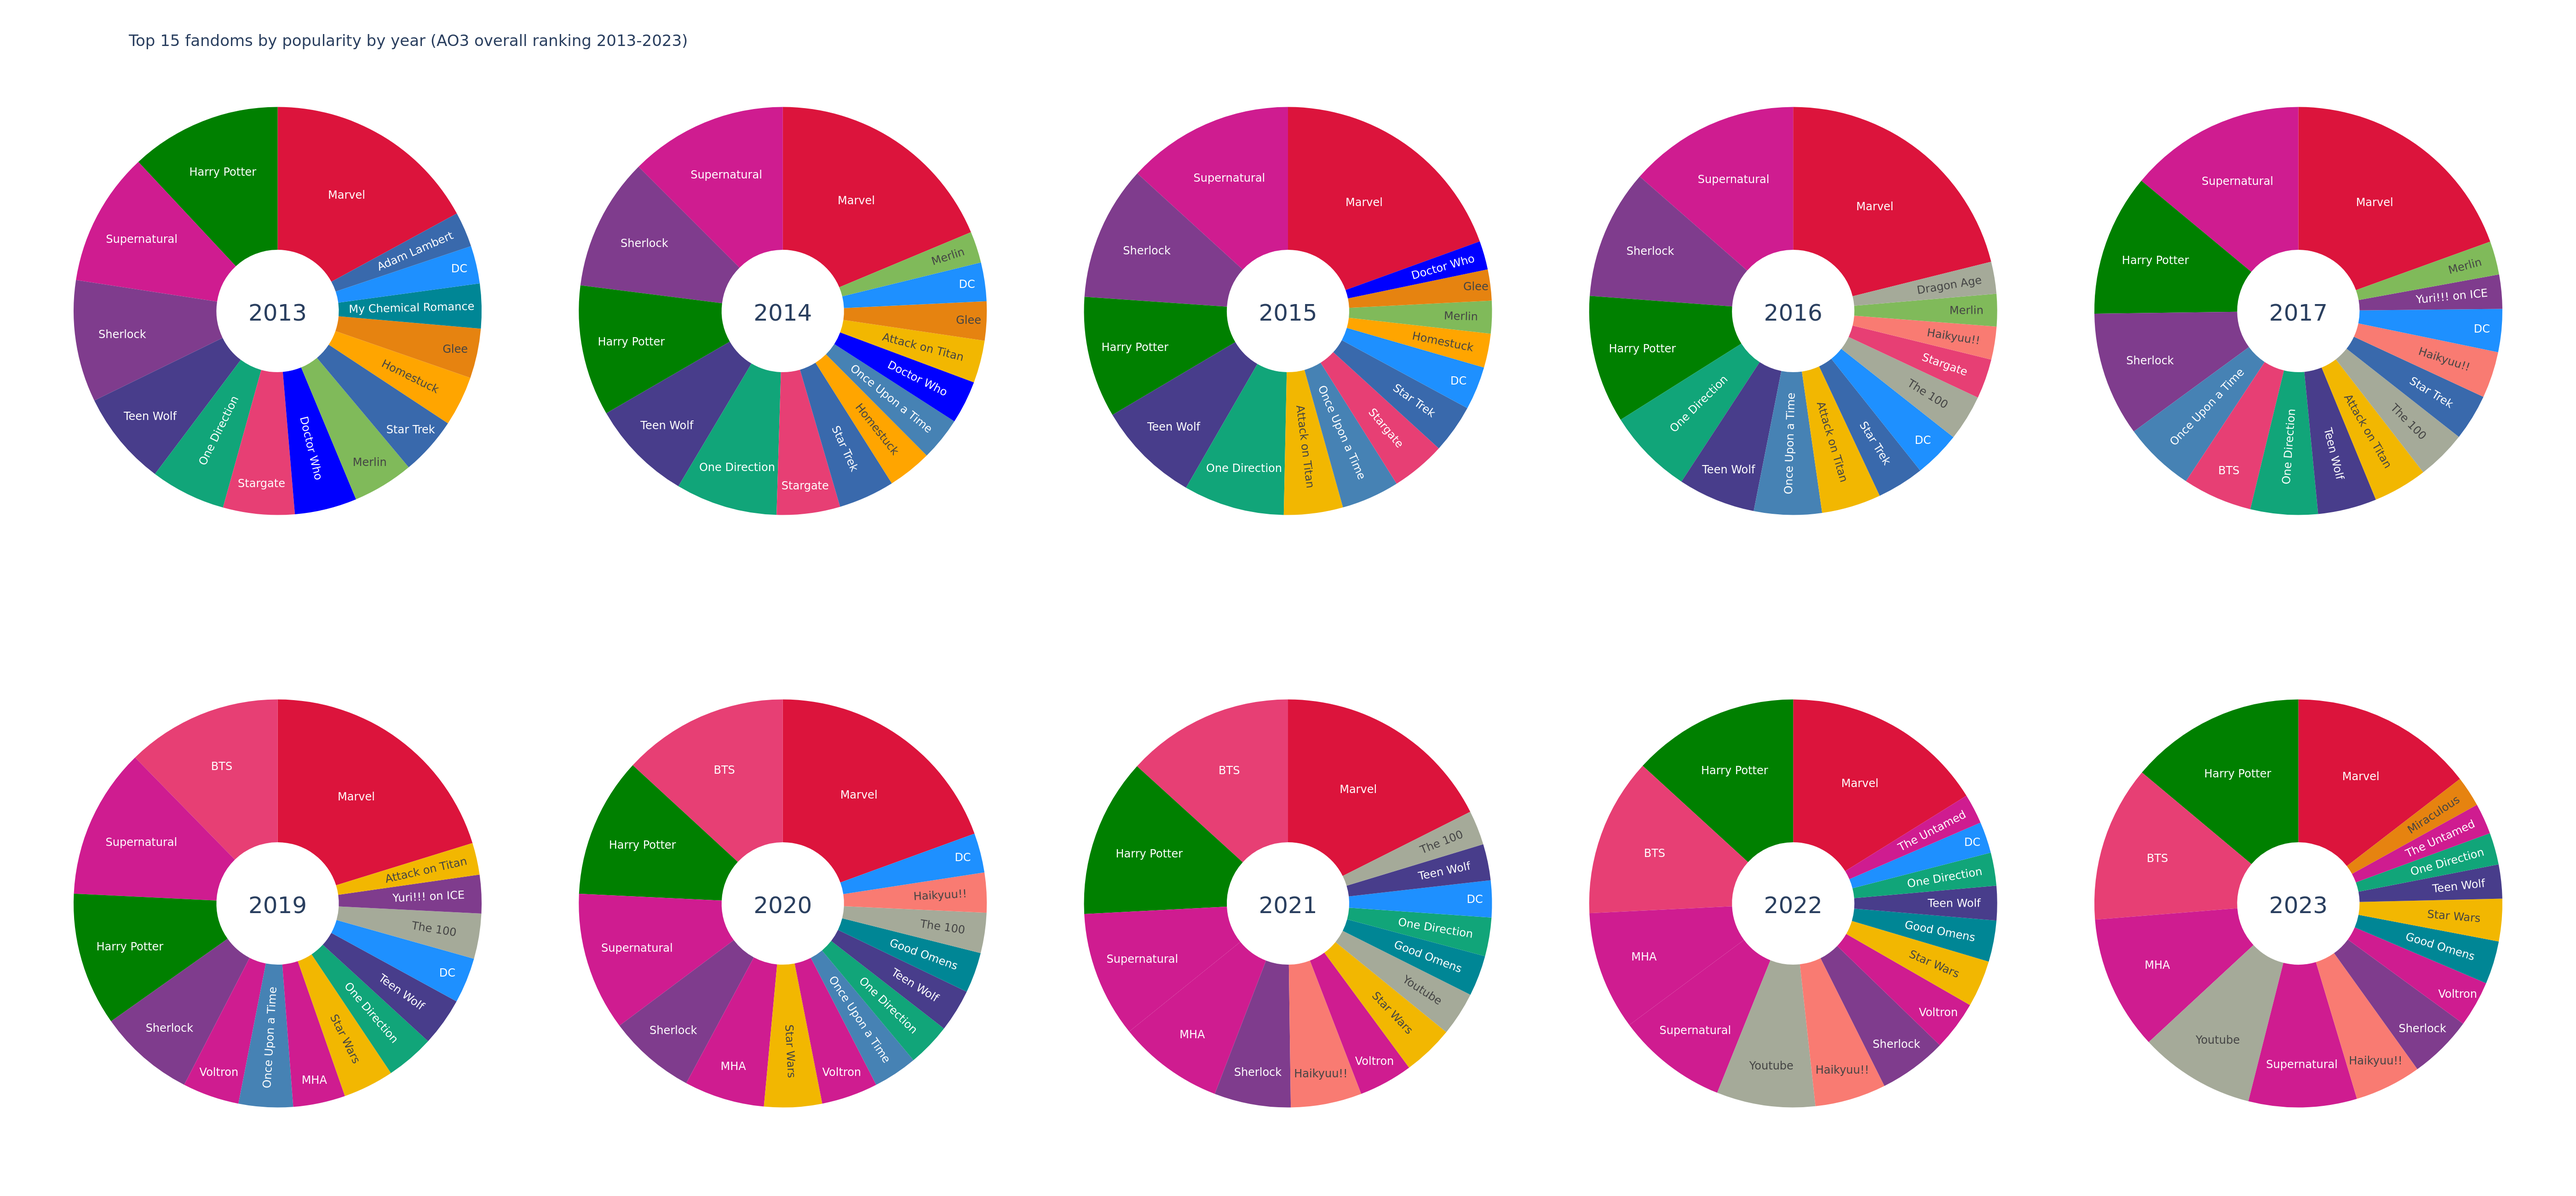
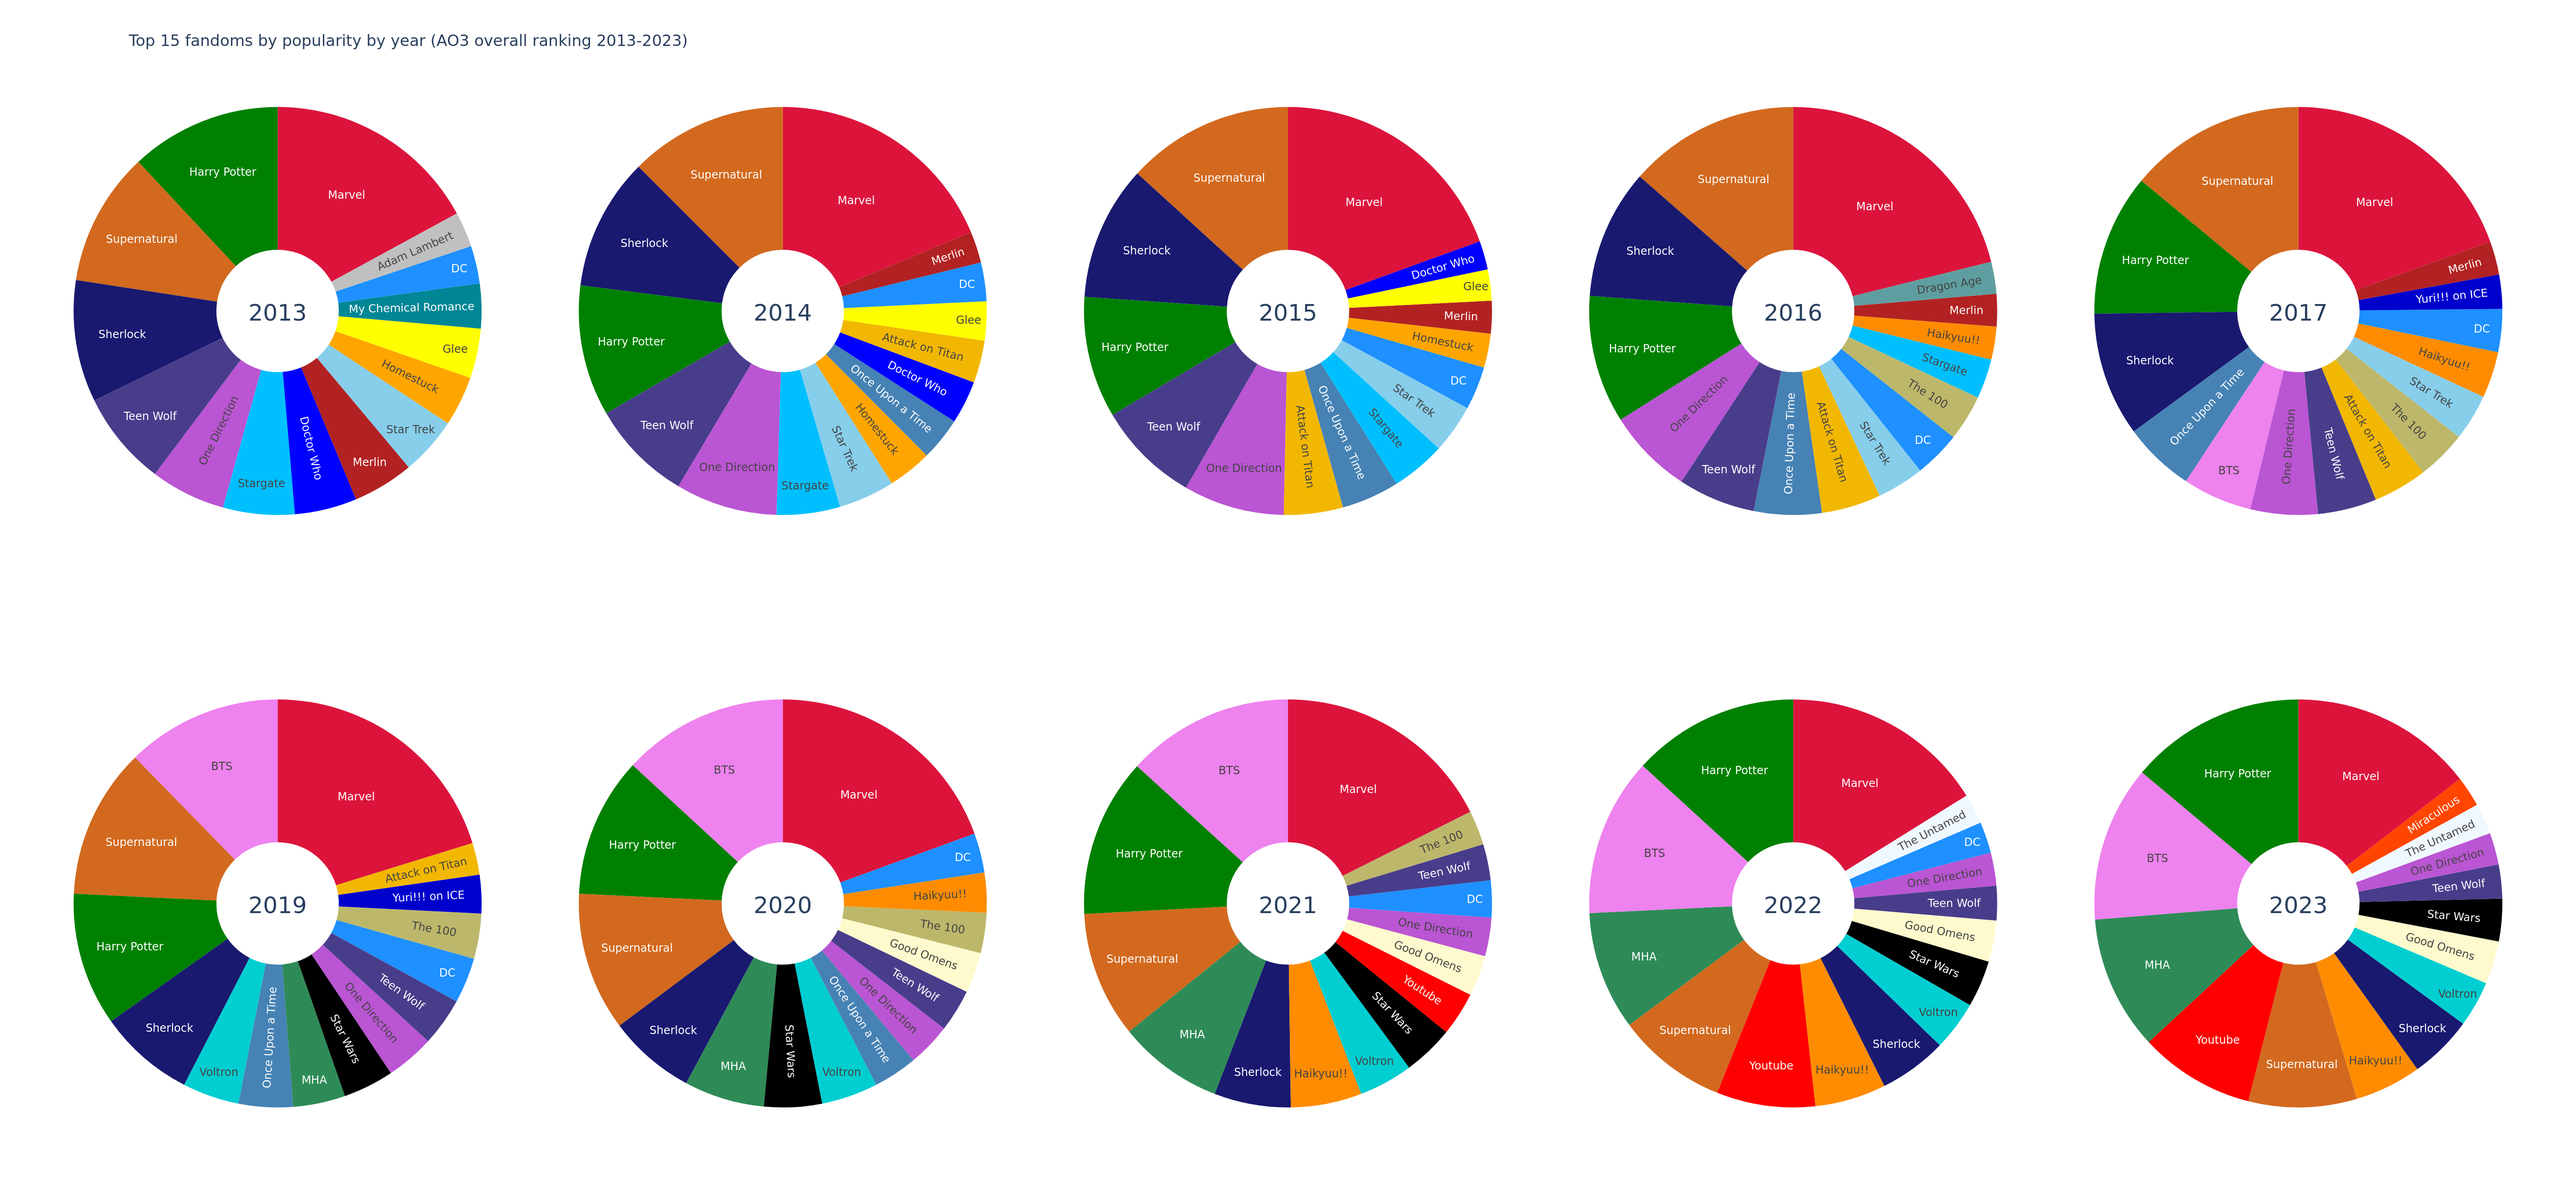
assign more colours to fandoms

diff --git a/visualisation/vis_utils/make_colour_lookup.py b/visualisation/vis_utils/make_colour_lookup.py
@@ -41,6 +41,30 @@ def make_colour_lookup(input_df:DataFrame): # for fandoms
     colour_lookup["Doctor Who"] = "blue"
     colour_lookup["Frozen"] = "paleturquoise"
     colour_lookup["Carmilla"] = "red"
+    colour_lookup["Bangtan Boys / BTS"] = "violet"
+    colour_lookup["Star Trek"] = "skyblue"
+    colour_lookup["My Hero Academia | 僕のヒーローアカデミア"] = "seagreen"
+    colour_lookup["Supernatural"] = "chocolate"
+    colour_lookup["Haikyuu!! | ハイキュー!!"] = "darkorange"
+    colour_lookup["Star Wars"] = "black"
+    colour_lookup["Youtube"] = "red"
+    colour_lookup["One Direction"] = "mediumorchid"
+    colour_lookup["Good Omens"] = "lemonchiffon"
+    colour_lookup["Voltron"] = "darkturquoise"
+    colour_lookup["Dragon Age"] = "cadetblue"
+    colour_lookup["Yuri!!! on ICE | ユーリ!!! on ICE"] = "mediumblue"
+    colour_lookup["Sherlock"] = "midnightblue"
+    colour_lookup["Stargate"] = "deepskyblue"
+    colour_lookup["Free!"] = "aqua"
+    colour_lookup["Merlin"] = "firebrick"
+    colour_lookup["Lord of the Rings Universe"] = "olivedrab"
+    colour_lookup["The 100"] = "darkkhaki"
+    colour_lookup["Glee"] = "yellow"
+    colour_lookup["Adam Lambert"] = "silver"
+    colour_lookup["A Song of Ice and Fire / Game of Thrones Universe"] = "dimgrey"
+    colour_lookup["Miraculous: Tales of Ladybug & Cat Noir | Miraculous: Les Aventures de Ladybug et Chat Noir"] = "orangered"
+    colour_lookup["Grandmaster of Demonic Cultivation / The Untamed | 魔道祖师 / 陈情令"] = "aliceblue"
+    colour_lookup[""] = ""
 
 
     return colour_lookup
